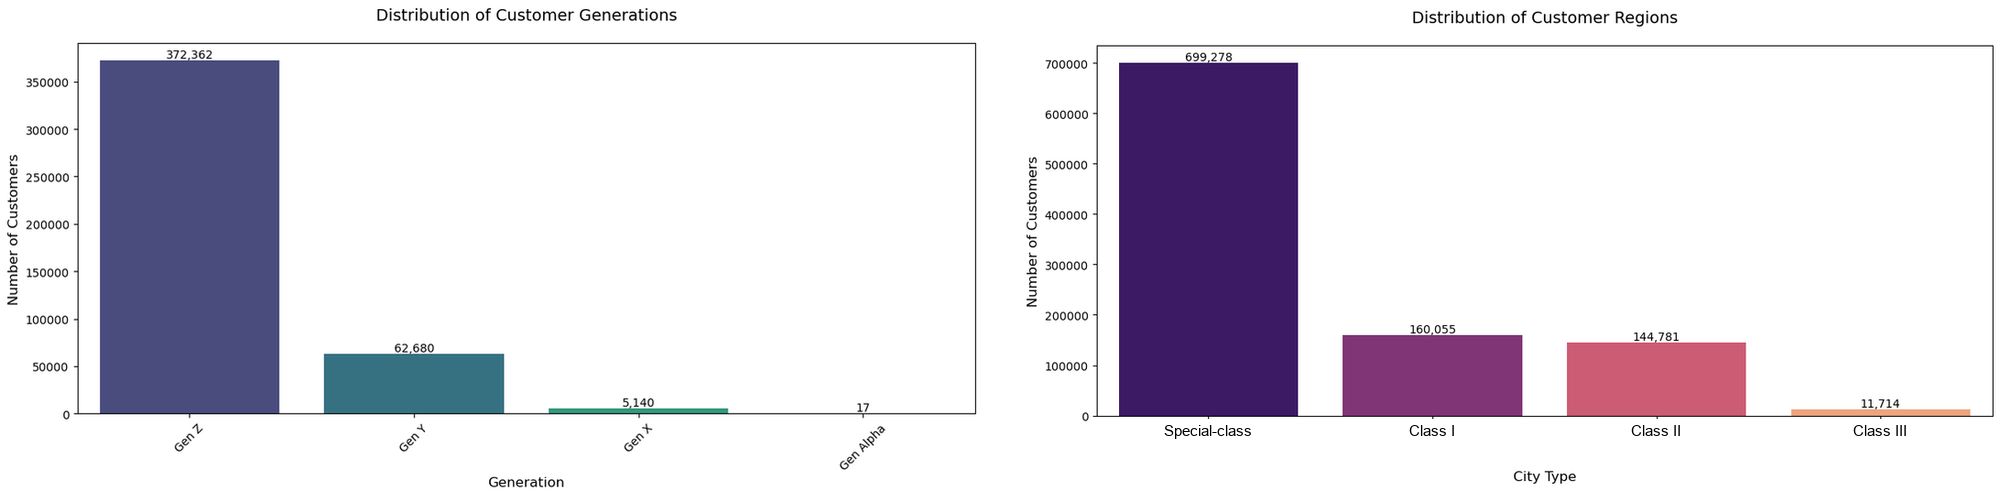
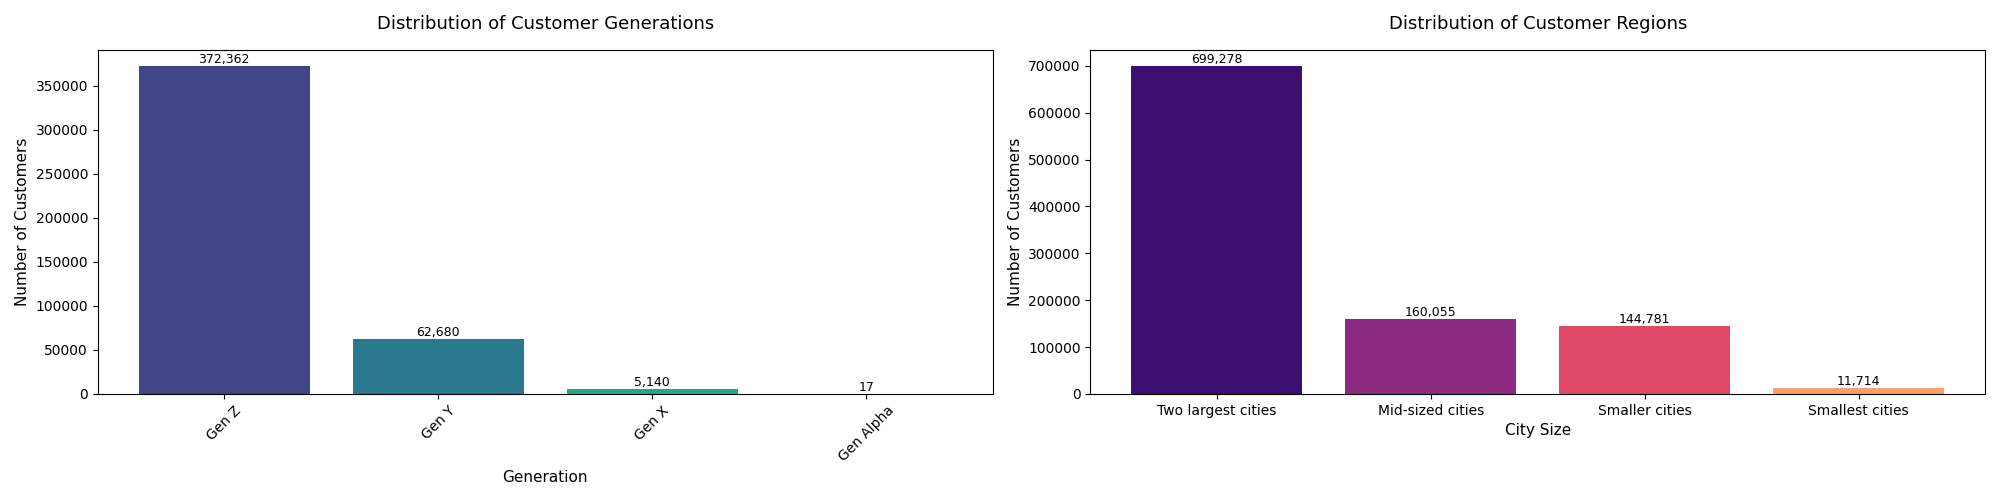
Make the VNPay project page less Vietnam-specific
Drop Vietnamese film titles, replace Vietnam's city-class labels with
plain city-size labels (text and chart), and generalize holiday names.

diff --git a/index.html b/index.html
@@ -950,13 +950,13 @@ const PROJECTS = [
         "h": "Who the customers are",
         "text": [
           "The customer base is young and overwhelmingly urban. Among customers with a known birth year, Gen Z accounts for roughly 85% (372,362 people), far ahead of Gen Y (62,680) and Gen X (5,140).",
-          "Geography is just as concentrated. About 69% of all customers (699,278) live in special-class cities, Vietnam's two largest metropolitan areas. Class I and Class II cities contribute similar numbers of customers (160,055 and 144,781), even though Class I cities are considerably larger."
+          "Geography is just as concentrated. About 69% of all customers (699,278) live in the country's two largest cities, and most of the rest are split fairly evenly between mid-sized cities (160,055) and smaller cities (144,781)."
         ],
         "figures": [
           {
             "src": "img/vnpay-rfm/customer-base.png",
             "title": "Who the customers are",
-            "caption": "Gen Z dominates every age group with a known birth year, and special-class cities account for roughly 69% of all customers."
+            "caption": "Gen Z dominates every age group with a known birth year, and the two largest cities account for roughly 69% of all customers."
           }
         ]
       },
@@ -982,8 +982,8 @@ const PROJECTS = [
       {
         "h": "What they choose to watch",
         "text": [
-          "During peak periods, 70 to 90% of viewers choose one of the one or two most popular titles showing at the time. These hits share a clear profile: they are Vietnamese films, usually comedies or romances, released within the previous one to two weeks. Examples include Công Tử Bạc Liêu, Chị Dâu, 404 Chạy Ngay Đi, Bộ Tứ Báo Thủ, Nụ Hôn Bạc Tỷ, Yêu Nhầm Bạn Thân, and Nhà Gia Tiên.",
-          "Genre tastes also vary by city. Science-fiction audiences are concentrated almost entirely in special-class cities, whereas comedy, romance, crime, and horror are spread much more evenly across city tiers."
+          "During peak periods, 70 to 90% of viewers choose one of the one or two most popular titles showing at the time. These hits share a clear profile: they are local films, usually comedies or romances, released within the previous one to two weeks.",
+          "Genre tastes also vary by city. Science-fiction audiences are concentrated almost entirely in the two largest cities, whereas comedy, romance, crime, and horror are spread much more evenly across smaller cities too."
         ]
       },
       {
@@ -1021,7 +1021,7 @@ const PROJECTS = [
         ],
         "bullets": [
           "Cluster 0, the devoted drama fans (15% of customers): drawn to drama, thrillers, and crime; buy throughout the week, averaging 74 transactions each, and are largely loyal",
-          "Cluster 1, the occasional holiday crowd (59%): favor mainstream comedy, romance, and horror, but appear almost exclusively at major holidays and on special days such as 8 March; most are recent or already lapsed, averaging just 6 transactions",
+          "Cluster 1, the occasional holiday crowd (59%): favor mainstream comedy, romance, and horror, but appear almost exclusively at major holidays and on special days such as International Women's Day; most are recent or already lapsed, averaging just 6 transactions",
           "Cluster 2, the families (23%): prefer adventure, fantasy, and animation, and concentrate their visits at the end of the week",
           "Cluster 3, the cinephiles (3%): a small but intensely engaged group drawn to science fiction, documentaries, and mystery, averaging 167 transactions each"
         ],
@@ -1064,7 +1064,7 @@ const PROJECTS = [
       {
         "h": "Recommendations",
         "bullets": [
-          "Concentrate social-media spend on popular Vietnamese comedies and romances in their first week of release, timed to the four windows that drive demand: Christmas (22 to 27 December), the New Year (28 December to 2 January), Lunar New Year, and the 30 April to 1 May holiday",
+          "Concentrate social-media spend on popular local comedies and romances in their first week of release, timed to the four windows that drive demand: Christmas, the New Year, Lunar New Year, and the national holiday at the end of April",
           "Launch weekend family bundles from Thursday to Sunday on animation, adventure, and fantasy titles, such as discounts on four or more tickets, child pricing, and complimentary popcorn or drinks",
           "Partner on ride-hailing vouchers to and from cinemas on weekends and family-heavy days, lowering the practical barrier to a trip to the cinema"
         ]
